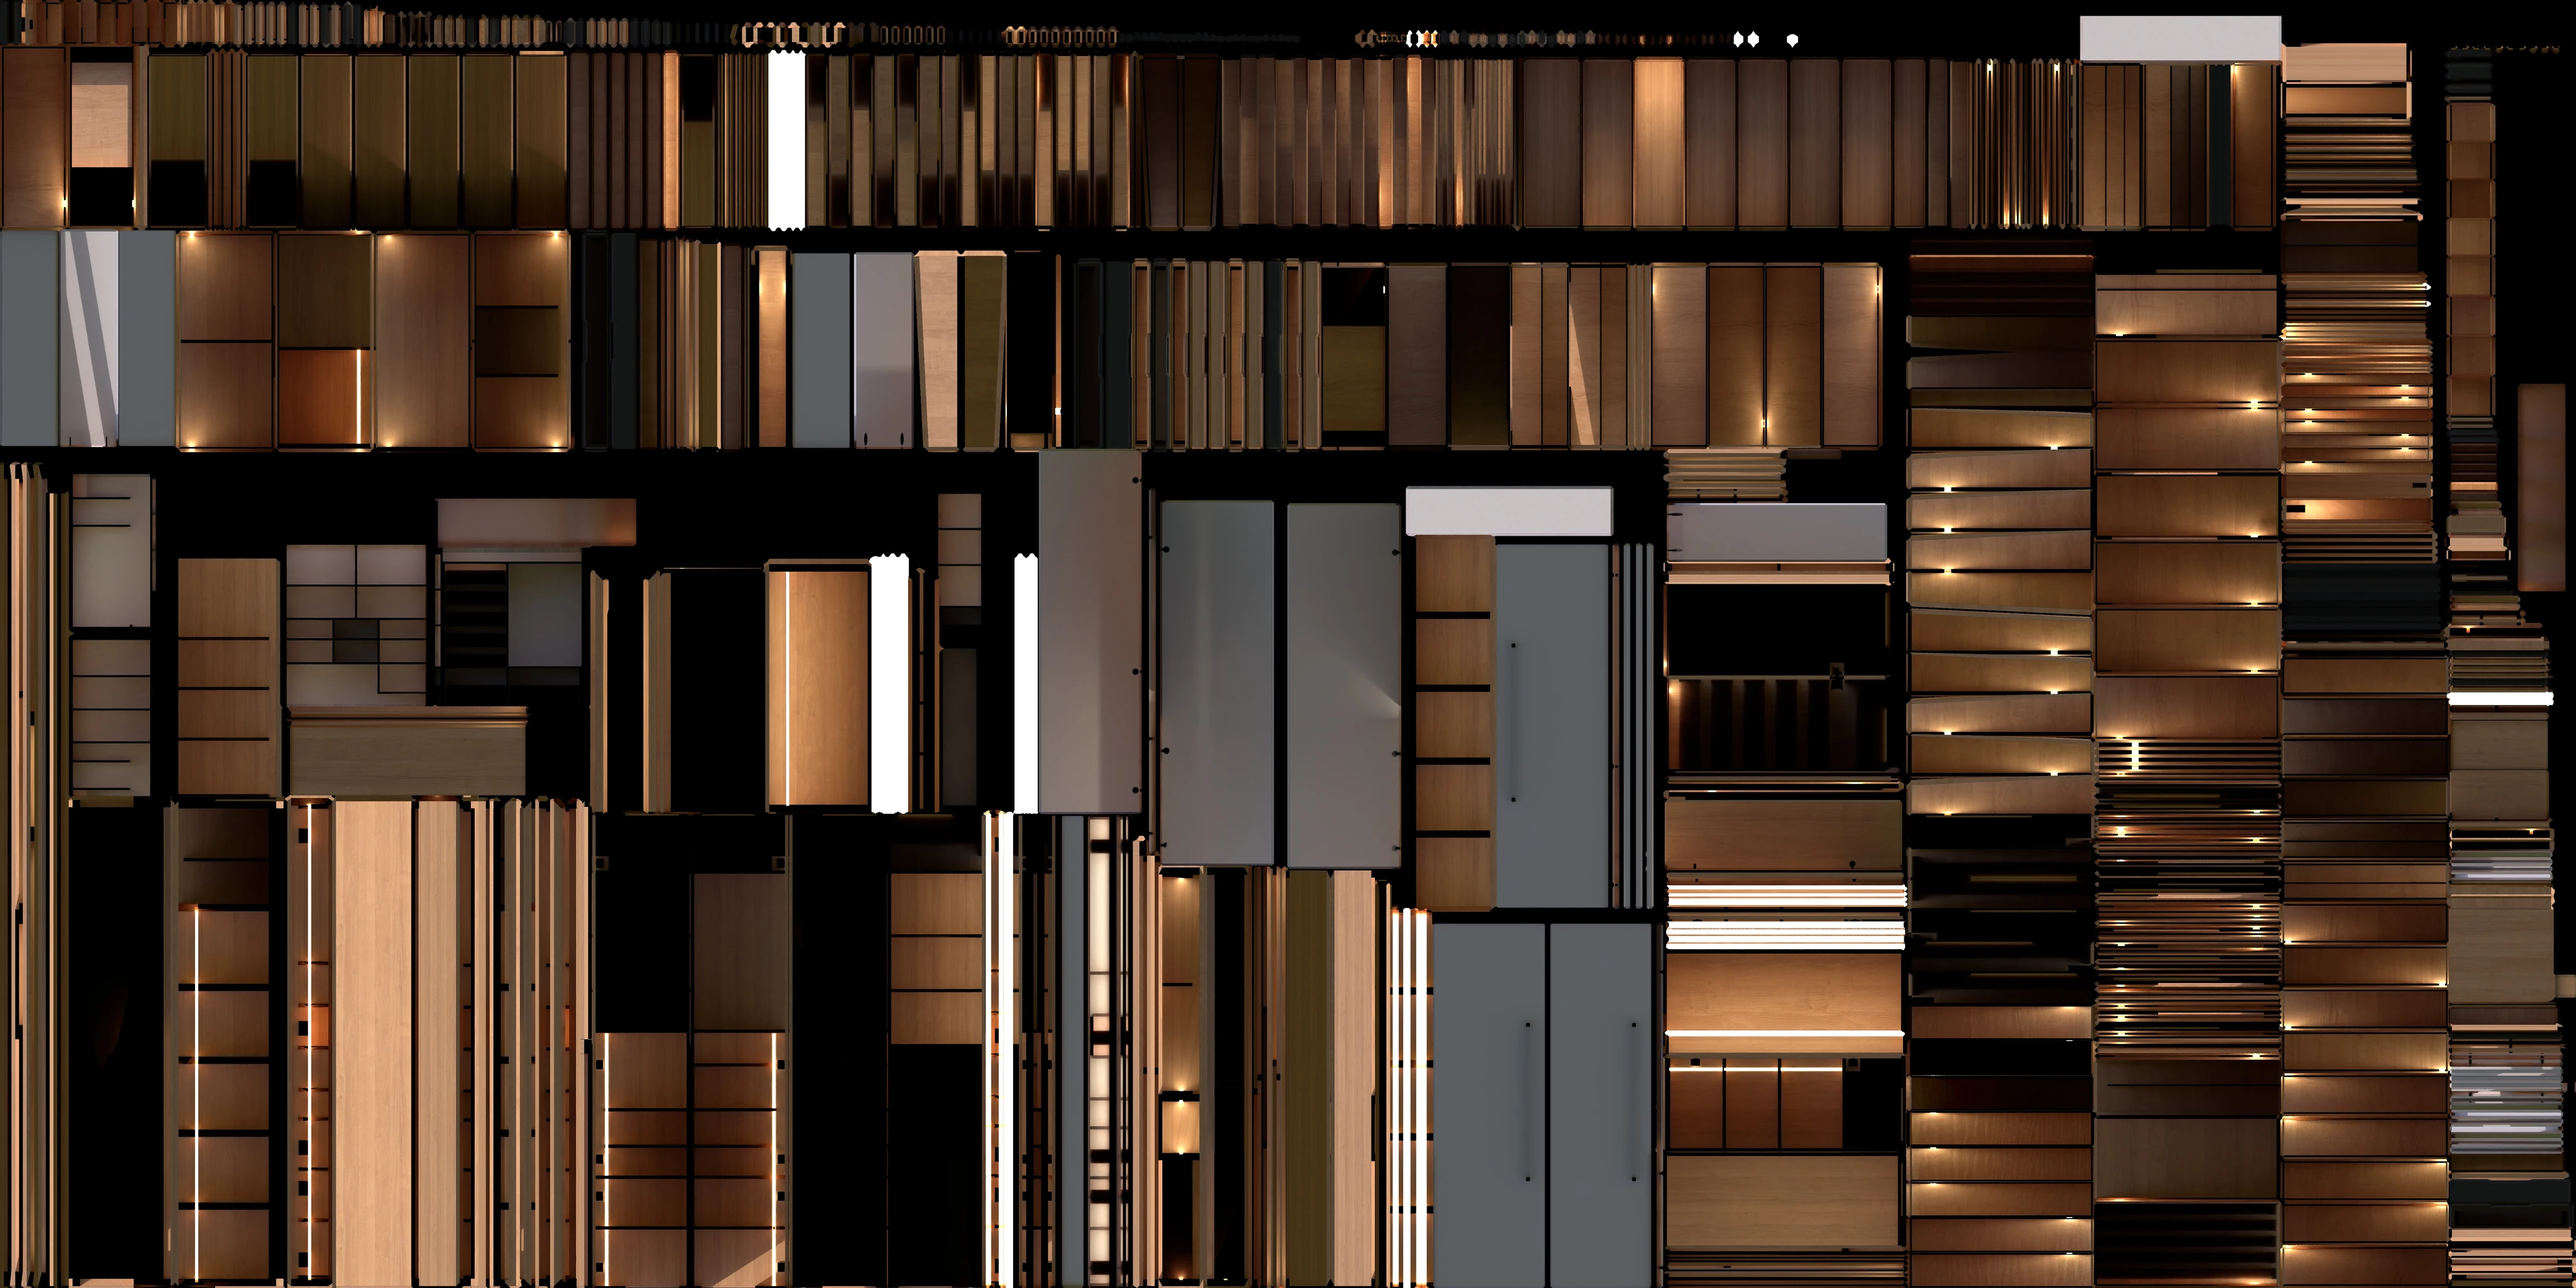
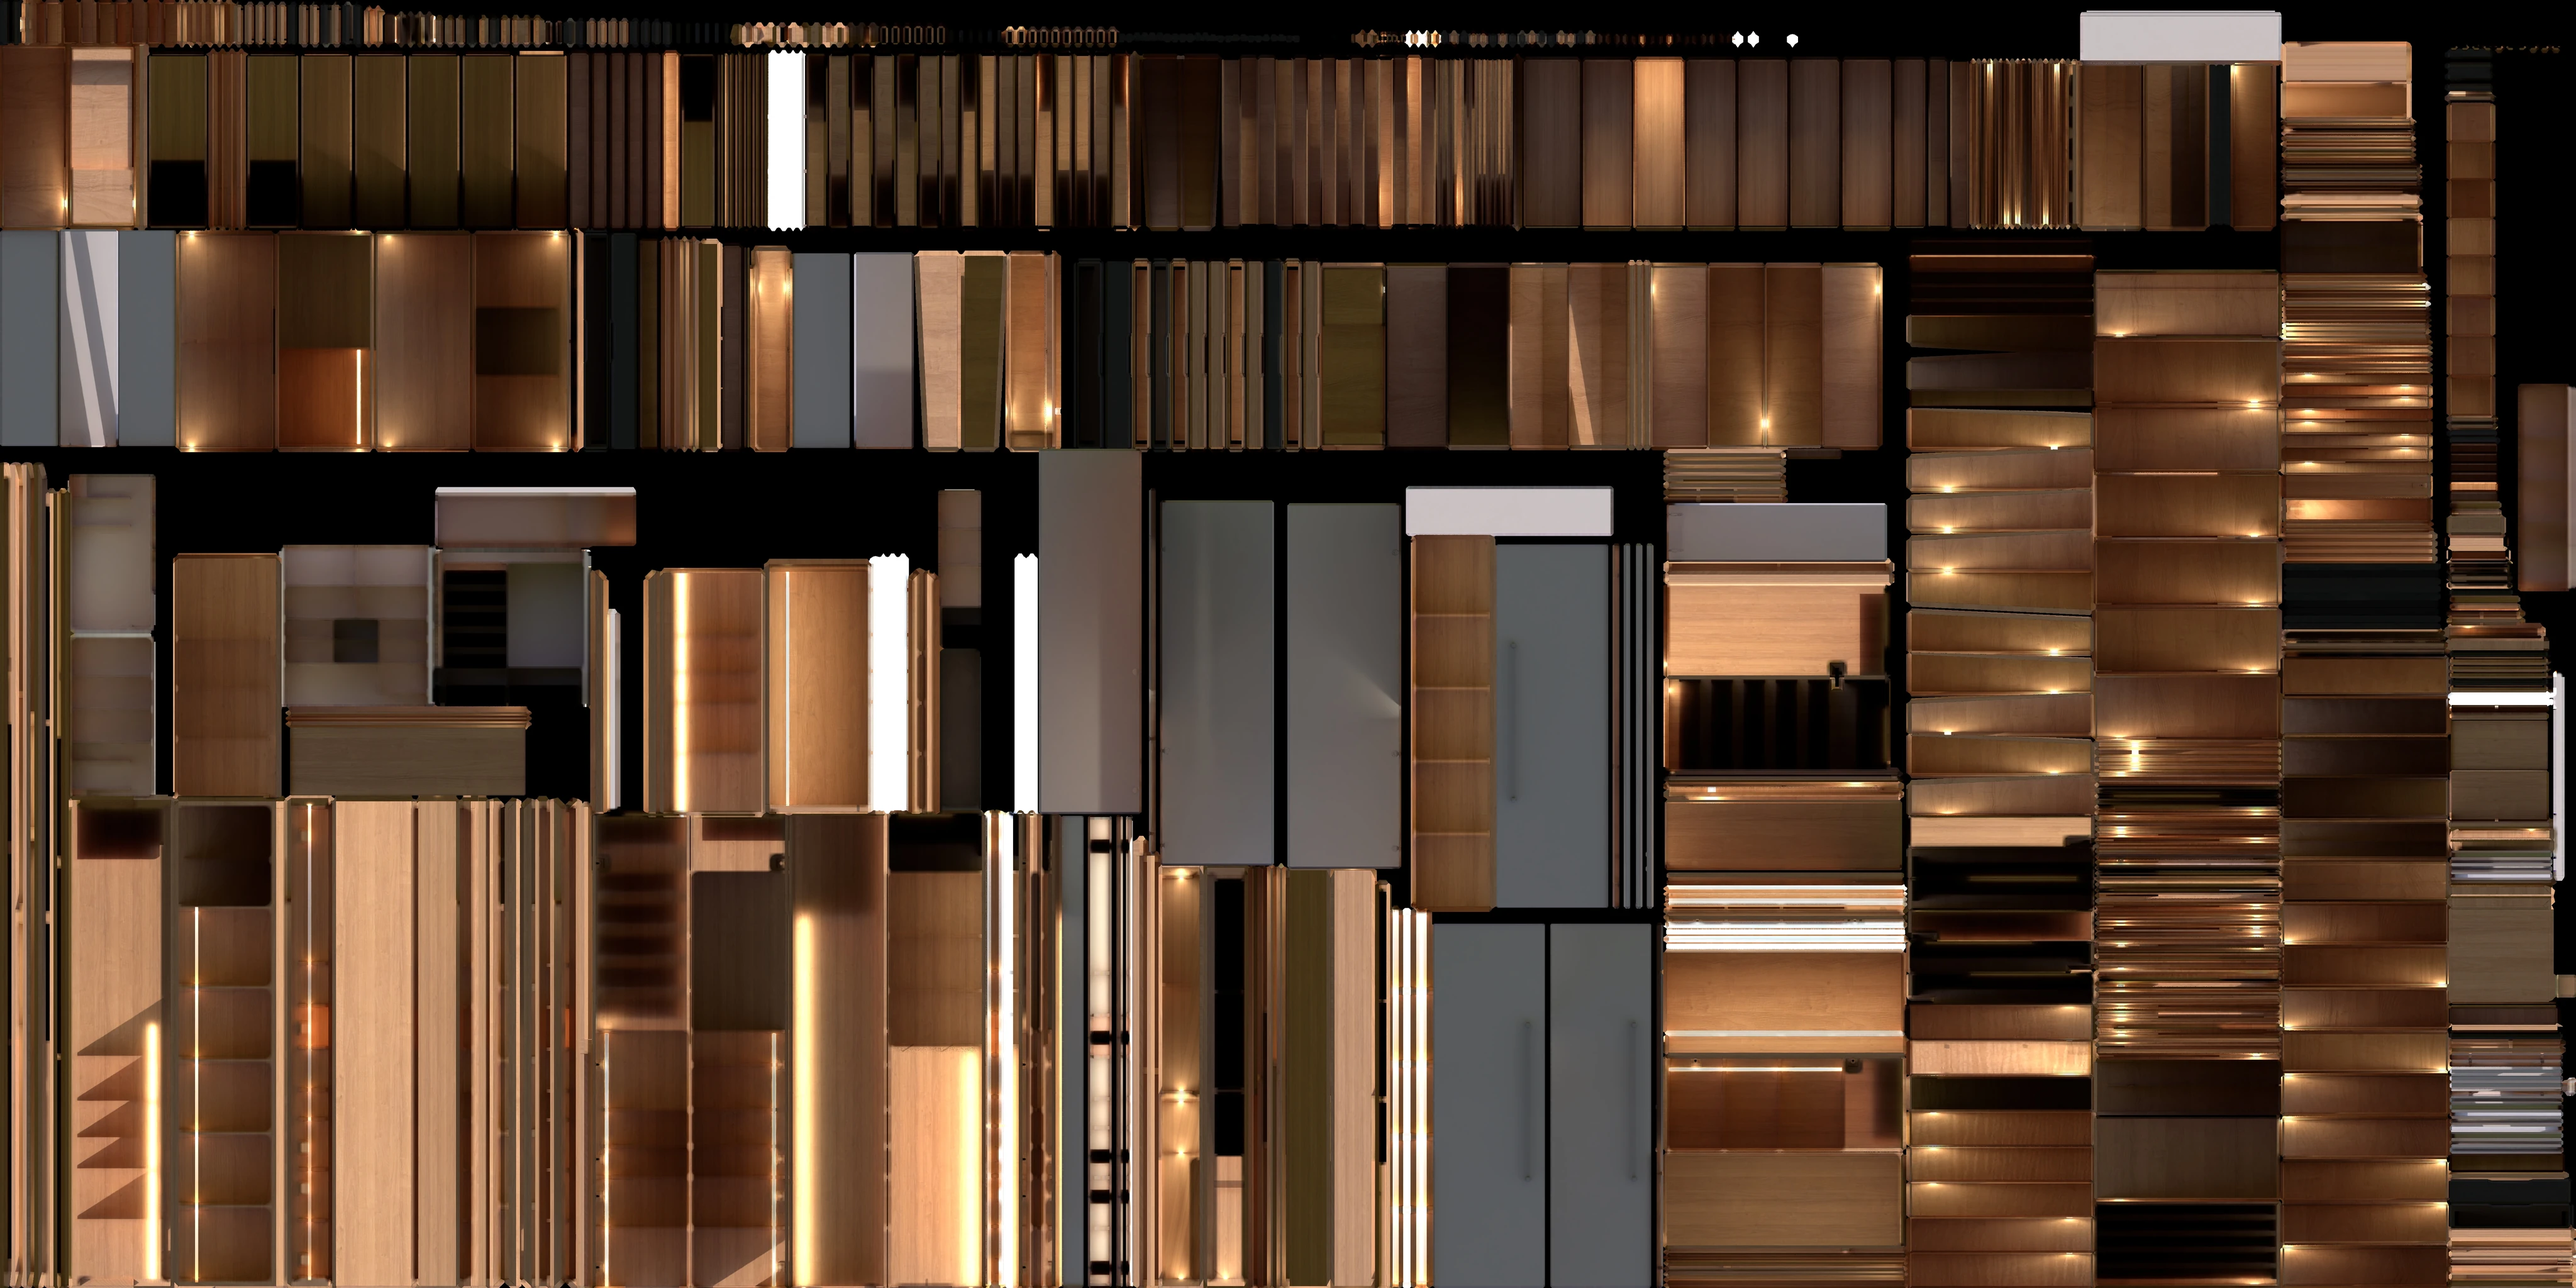
feat(bake): relight texels covered by touching parts
A probe bake marks texels whose rays start inside a part touching them (within 1 mm).
Those parts are baked again in non-touching groups with their neighbours hidden, and
only the covered texels replace the atlas, gain-matched to the open texels around the
joint. Removes the black stripes under shelves, hinge plates and panels; the rest of
the atlas is the normal bake. The bake now takes ~13 min.

diff --git a/scripts/bake.py b/scripts/bake.py
@@ -12,6 +12,7 @@ import re
 import sys
 import bpy
 import bmesh
+import numpy as np
 from mathutils import Vector
 
 if not bpy.app.background:
@@ -21,6 +22,7 @@ OPEN_FRAME = 40  # the door clips end fully open
 MARGIN = 16
 # Parts baked over step 1 must not bleed into other islands: the closest gap between islands is ~12 px at 8096x4096.
 OVER_MARGIN = 6
+RING = 12  # texels around a joint that set the brightness of the texels it covers
 SLIDE = 0.7  # drawers slide out by this share of their depth, as in app/components/parts.ts
 
 scene = bpy.context.scene
@@ -49,6 +51,7 @@ for o in baked:
 panels = [o for o in baked if o in fronts and not o.name.endswith('_Handle')]
 handles = [o for o in baked if o.name.endswith('_Handle')]
 drawers = [o for o in baked if o.name.startswith('DR_')]
+leds = set(bpy.data.collections['5_LED'].all_objects)
 
 
 def carried_by_front(o):
@@ -73,7 +76,7 @@ for o in panels:
     bpy.data.meshes.remove(mesh)
 
 
-def bake(objs, use_clear, margin, keep=None, slide=0.0):
+def bake(objs, use_clear, margin, keep=None, slide=0.0, type='COMBINED', **options):
     """Bakes one joined copy of objs; keep(o, face_index) limits which faces of o get baked, slide moves them to the front (-X)."""
     copies = []
     for o in objs:
@@ -96,11 +99,150 @@ def bake(objs, use_clear, margin, keep=None, slide=0.0):
     bpy.ops.object.join()
     joined = view_layer.objects.active
     joined.data.uv_layers.active = joined.data.uv_layers['Baked']
-    bpy.ops.object.bake(type='COMBINED', target='IMAGE_TEXTURES', use_selected_to_active=False,
-                        use_clear=use_clear, margin=margin, margin_type='ADJACENT_FACES')
+    bpy.ops.object.bake(type=type, target='IMAGE_TEXTURES', use_selected_to_active=False,
+                        use_clear=use_clear, margin=margin, margin_type='ADJACENT_FACES', **options)
     bpy.data.objects.remove(joined)
     for o in objs:
         o.hide_render = False
+
+
+def world_box(o):
+    corners = [o.matrix_world @ Vector(c) for c in o.bound_box]
+    return Vector(min(c[i] for c in corners) for i in range(3)), Vector(max(c[i] for c in corners) for i in range(3))
+
+
+def touch(a, b, tol=0.001):
+    return all(a[0][i] - tol <= b[1][i] and b[0][i] - tol <= a[1][i] for i in range(3))
+
+
+def box(values, radius):
+    """Sum of values over a (2 radius + 1) square around each texel."""
+    total = np.asarray(values, np.float64)
+    for axis in (0, 1):
+        size = total.shape[axis]
+        running = np.concatenate([np.zeros_like(np.take(total, [0], axis=axis)), np.cumsum(total, axis=axis)], axis=axis)
+        index = np.arange(size)
+        total = np.take(running, np.minimum(index + radius + 1, size), axis=axis) - np.take(running, np.maximum(index - radius, 0), axis=axis)
+    return total
+
+
+def pixels(image):
+    flat = np.empty(len(image.pixels), np.float32)
+    image.pixels.foreach_get(flat)
+    return flat.reshape(-1, 4)
+
+
+def probe(image):
+    """A material that glows only where a ray from a baked texel lands inside another part: on a back face, or on a
+    face lying right on the texel (two boards that share a plane). Its diffuse bake is the share of covered rays."""
+    material = bpy.data.materials.new('ContactProbe')
+    material.use_nodes = True
+    tree = material.node_tree
+    tree.nodes.clear()
+    geometry = tree.nodes.new('ShaderNodeNewGeometry')
+    path = tree.nodes.new('ShaderNodeLightPath')
+    close = tree.nodes.new('ShaderNodeMath')
+    close.operation = 'LESS_THAN'
+    close.inputs[1].default_value = 0.001  # boards up to 1 mm apart count as touching
+    inside = tree.nodes.new('ShaderNodeMath')
+    inside.operation = 'MAXIMUM'
+    glow = tree.nodes.new('ShaderNodeEmission')
+    add = tree.nodes.new('ShaderNodeAddShader')
+    output = tree.nodes.new('ShaderNodeOutputMaterial')
+    tree.links.new(path.outputs['Ray Length'], close.inputs[0])
+    tree.links.new(geometry.outputs['Backfacing'], inside.inputs[0])
+    tree.links.new(close.outputs[0], inside.inputs[1])
+    tree.links.new(inside.outputs[0], glow.inputs['Strength'])
+    tree.links.new(tree.nodes.new('ShaderNodeBsdfDiffuse').outputs[0], add.inputs[0])
+    tree.links.new(glow.outputs[0], add.inputs[1])
+    tree.links.new(add.outputs[0], output.inputs['Surface'])
+    target = tree.nodes.new('ShaderNodeTexImage')
+    target.image = image
+    target.select = True
+    tree.nodes.active = target
+    return material
+
+
+def uncover(receivers, margin, keep=None):
+    """Bakes again the texels of receivers that a touching part covers (black in the atlas), as if that part were gone.
+
+    A probe bake marks the covered texels (their rays start inside the touching part); the receivers are then baked
+    in groups that do not touch each other, with the parts touching them hidden, and only the marked texels are copied
+    into the atlas. Every other texel keeps its normal bake, contact shadows next to the joints included."""
+    atlas = bpy.data.images['Baked']
+    width, height = atlas.size
+    nodes = [m.node_tree.nodes.active for m in bpy.data.materials if m.node_tree]
+    nodes = [n for n in nodes if n and n.type == 'TEX_IMAGE' and n.image == atlas]
+    view_layer.update()  # drops the joined copies that bake() removed
+    visible = [o for o in view_layer.objects if o.type == 'MESH' and not o.hide_render]
+    # LED strips stay: hiding a light would darken the very texels being fixed
+    blockers = [o for o in visible if o not in leds]
+    boxes = {o: world_box(o) for o in visible}
+    near = {o: {b for b in blockers if b != o and touch(boxes[o], boxes[b])} for o in receivers}
+    receivers = sorted((o for o in receivers if near[o]), key=lambda o: -len(near[o]))
+    groups = []
+    for o in receivers:
+        group = next((g for g in groups if not any(m in near[o] or o in near[m] for m in g)), None)
+        if group is None:
+            groups.append(group := [])
+        group.append(o)
+
+    mask = bpy.data.images.new('ContactMask', width, height, alpha=False)
+    mask.colorspace_settings.is_data = True
+    lit = bpy.data.images.new('Uncovered', width, height, alpha=False)
+    lit.colorspace_settings.name = atlas.colorspace_settings.name
+
+    material = probe(mask)
+    swapped, added = [], []
+    for o in visible:
+        if not o.material_slots:
+            o.data.materials.append(None)
+            added.append(o)
+        for slot in o.material_slots:
+            swapped.append((slot, slot.material))
+            slot.material = material
+    world, samples, bounces = scene.world, scene.cycles.samples, scene.cycles.max_bounces
+    scene.world, scene.cycles.samples, scene.cycles.max_bounces = None, 32, 1
+    bake(receivers, use_clear=True, margin=margin, keep=keep, type='DIFFUSE', pass_filter={'DIRECT', 'INDIRECT'})
+    scene.world, scene.cycles.samples, scene.cycles.max_bounces = world, samples, bounces
+    for slot, original in swapped:
+        slot.material = original
+    for o in added:
+        o.data.materials.pop()
+    bpy.data.materials.remove(material)
+
+    for n in nodes:
+        n.image = lit
+    for group in groups:
+        hidden = set().union(*(near[o] for o in group))
+        for o in hidden:
+            o.hide_render = True
+        bake(group, use_clear=False, margin=margin, keep=keep)
+        for o in hidden:
+            o.hide_render = False
+    for n in nodes:
+        n.image = atlas
+
+    # Covered texels see the probe on nearly all rays; open ones right at a joint on well under half
+    weight = np.clip((pixels(mask)[:, 0] - 0.25) / 0.5, 0, 1)
+    merged, fresh = pixels(atlas), pixels(lit)
+    # With every touching part gone the fresh bake sees more light than its neighbours, so it takes the brightness of
+    # the open texels around each joint; a face covered whole has no such ring and keeps its own light
+    covered = (weight > 0).reshape(height, width)
+    ring = (~covered & (box(covered, RING) > 0)).ravel()
+    trust = np.clip(box(ring.reshape(height, width), RING).ravel() / (0.3 * (2 * RING + 1) ** 2), 0, 1)
+    rows = np.nonzero(weight)[0]
+    for c in range(3):
+        near_old = box(np.where(ring, merged[:, c], 0).reshape(height, width), RING).ravel()[rows]
+        near_new = box(np.where(ring, fresh[:, c], 0).reshape(height, width), RING).ravel()[rows]
+        gain = np.where(near_new > 1e-3, near_old / np.maximum(near_new, 1e-3), 1)
+        gain = 1 + (np.clip(gain, 0, 4) - 1) * trust[rows]
+        old = merged[rows, c]
+        merged[rows, c] = old + (fresh[rows, c] * gain - old) * weight[rows]
+    atlas.pixels.foreach_set(merged.ravel())
+    bpy.data.images.remove(mask)
+    bpy.data.images.remove(lit)
+    print(f'Uncovered {len(rows)} texels of {len(receivers)} parts in {len(groups)} bakes')
 
 
 def closed_side(o, i):
@@ -142,15 +284,18 @@ hidden_in_step1 = (fronts | {o for o in wardrobe if carried_by_front(o)}) - elec
 for o in hidden_in_step1:
     o.hide_render = True
 bake([o for o in baked if o not in fronts], use_clear=True, margin=MARGIN)
+uncover([o for o in baked if o not in fronts and o not in drawers], MARGIN)
 for drawer in drawers:
     bake([drawer], use_clear=False, margin=OVER_MARGIN, slide=drawer.dimensions.x * SLIDE)
 for o in hidden_in_step1:
     o.hide_render = False
 
 bake(panels + handles, use_clear=False, margin=OVER_MARGIN, keep=closed_side)
+uncover(panels + handles, OVER_MARGIN, keep=closed_side)
 
 scene.frame_set(OPEN_FRAME)
 bake(panels, use_clear=False, margin=OVER_MARGIN, keep=open_side)
+uncover(panels, OVER_MARGIN, keep=open_side)
 
 atlas = bpy.data.images['Baked']
 atlas.file_format = 'JPEG'
